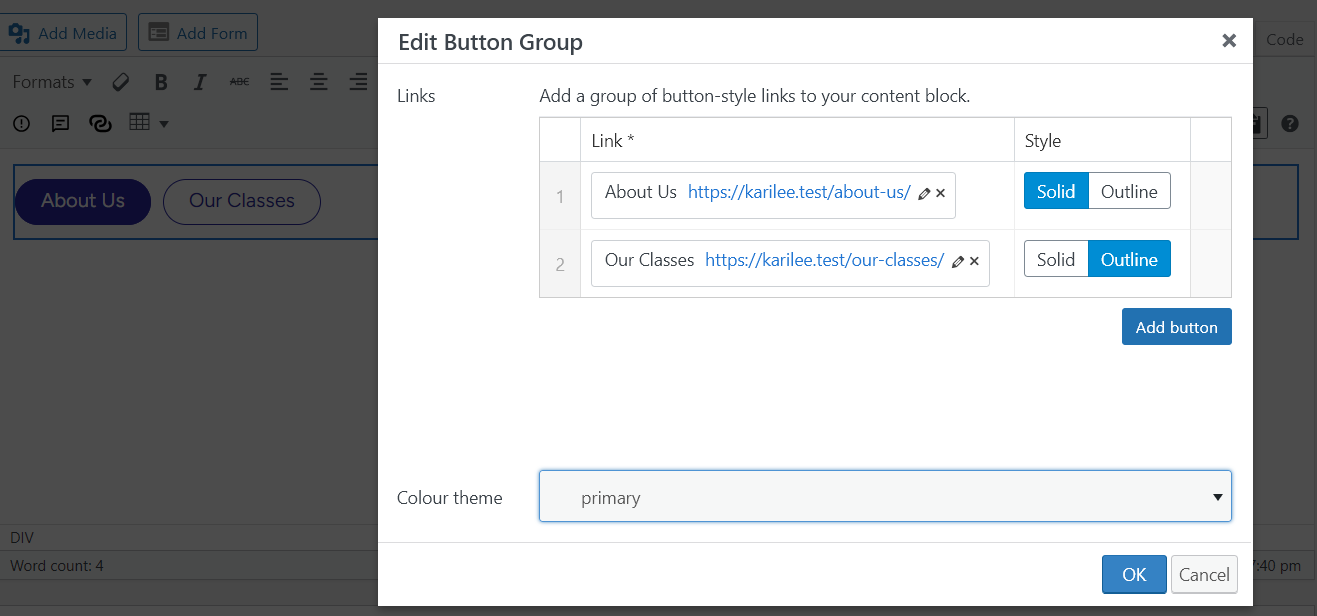
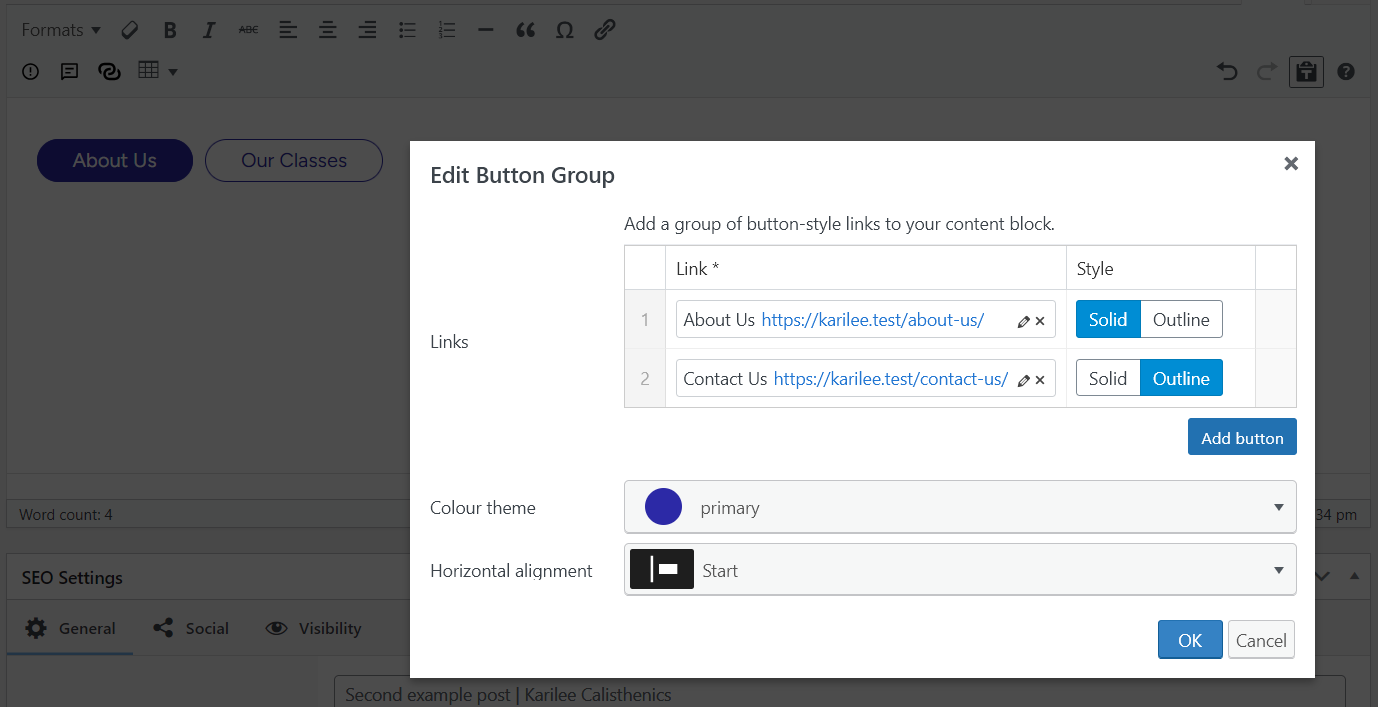
Fix(ButtonGroup,Pullquote,Callout): Display selected colour theme

diff --git a/dist/pullquote.dist.js b/dist/pullquote.dist.js
@@ -17,6 +17,7 @@
 				label: 'Colour theme',
 				value: selectedValue || '',
 				classes: 'color-theme-field',
+				onClick: this.updateCurrentThemeSwatch.bind(this),
 				values: [
 					{ text: 'Inherit', value: '', classes: 'color-theme-field__swatch color-theme-field__swatch--inherit' },
 					...Object.keys(doublee_tinymce.palette).map(colorName => ({
@@ -26,6 +27,30 @@
 					}))
 				]
 			};
+		}
+
+		displayCurrentColorThemeSwatch(event) {
+			const colorThemeTrigger = event?.target.$el[0].querySelector('.mce-color-theme-field');
+			const colorThemeLabel = event?.target.$el[0].querySelector('.mce-color-theme-field .mce-txt')?.textContent;
+			if(colorThemeTrigger && colorThemeLabel) {
+				colorThemeTrigger.insertAdjacentHTML('afterbegin', `<span class="mce-color-theme-field__swatch mce-color-theme-field__swatch--${colorThemeLabel.toLowerCase()}"></span>`);
+			}
+		}
+
+		updateCurrentThemeSwatch(event) {
+			const colorThemeTrigger = document.querySelector('.mce-color-theme-field');
+			const clickedOption = event?.target?.closest('.mce-menu-item');
+			const clickedOptionLabel = clickedOption?.innerText?.trim();
+			if(colorThemeTrigger && clickedOptionLabel) {
+				// Remove the old swatch
+				const oldSwatch = colorThemeTrigger.querySelector('.mce-color-theme-field__swatch');
+				if(oldSwatch) {
+					oldSwatch.remove();
+				}
+
+				// Insert the new swatch according to the newly-selected option
+				colorThemeTrigger.insertAdjacentHTML('afterbegin', `<span class="mce-color-theme-field__swatch mce-color-theme-field__swatch--${clickedOptionLabel.toLowerCase()}"></span>`);
+			}
 		}
 
 		createHAlignSelector(selectedValue) {
@@ -191,7 +216,10 @@
 					},
 					this.createColorThemeSelector(data.colorTheme)
 				],
-				onsubmit: function (e) {
+				onOpen: function (event) {
+					plugin.displayCurrentColorThemeSwatch(event);
+				},
+				onSubmit: function (e) {
 					const citation = e.data.citation ? e.data.citation.trim() : '';
 
 					const html = `

diff --git a/dist/callout.dist.js b/dist/callout.dist.js
@@ -17,6 +17,7 @@
 				label: 'Colour theme',
 				value: selectedValue || '',
 				classes: 'color-theme-field',
+				onClick: this.updateCurrentThemeSwatch.bind(this),
 				values: [
 					{ text: 'Inherit', value: '', classes: 'color-theme-field__swatch color-theme-field__swatch--inherit' },
 					...Object.keys(doublee_tinymce.palette).map(colorName => ({
@@ -26,6 +27,30 @@
 					}))
 				]
 			};
+		}
+
+		displayCurrentColorThemeSwatch(event) {
+			const colorThemeTrigger = event?.target.$el[0].querySelector('.mce-color-theme-field');
+			const colorThemeLabel = event?.target.$el[0].querySelector('.mce-color-theme-field .mce-txt')?.textContent;
+			if(colorThemeTrigger && colorThemeLabel) {
+				colorThemeTrigger.insertAdjacentHTML('afterbegin', `<span class="mce-color-theme-field__swatch mce-color-theme-field__swatch--${colorThemeLabel.toLowerCase()}"></span>`);
+			}
+		}
+
+		updateCurrentThemeSwatch(event) {
+			const colorThemeTrigger = document.querySelector('.mce-color-theme-field');
+			const clickedOption = event?.target?.closest('.mce-menu-item');
+			const clickedOptionLabel = clickedOption?.innerText?.trim();
+			if(colorThemeTrigger && clickedOptionLabel) {
+				// Remove the old swatch
+				const oldSwatch = colorThemeTrigger.querySelector('.mce-color-theme-field__swatch');
+				if(oldSwatch) {
+					oldSwatch.remove();
+				}
+
+				// Insert the new swatch according to the newly-selected option
+				colorThemeTrigger.insertAdjacentHTML('afterbegin', `<span class="mce-color-theme-field__swatch mce-color-theme-field__swatch--${clickedOptionLabel.toLowerCase()}"></span>`);
+			}
 		}
 
 		createHAlignSelector(selectedValue) {
@@ -182,7 +207,10 @@
 					},
 					this.createColorThemeSelector(data.colorTheme)
 				],
-				onsubmit: function (e) {
+				onOpen: function (event) {
+					plugin.displayCurrentColorThemeSwatch(event);
+				},
+				onSubmit: function (e) {
 					const content = e.data.content.trim();
 					if (content === '') {
 						return;

diff --git a/dist/buttongroup.dist.js b/dist/buttongroup.dist.js
@@ -17,6 +17,7 @@
 				label: 'Colour theme',
 				value: selectedValue || '',
 				classes: 'color-theme-field',
+				onClick: this.updateCurrentThemeSwatch.bind(this),
 				values: [
 					{ text: 'Inherit', value: '', classes: 'color-theme-field__swatch color-theme-field__swatch--inherit' },
 					...Object.keys(doublee_tinymce.palette).map(colorName => ({
@@ -26,6 +27,30 @@
 					}))
 				]
 			};
+		}
+
+		displayCurrentColorThemeSwatch(event) {
+			const colorThemeTrigger = event?.target.$el[0].querySelector('.mce-color-theme-field');
+			const colorThemeLabel = event?.target.$el[0].querySelector('.mce-color-theme-field .mce-txt')?.textContent;
+			if(colorThemeTrigger && colorThemeLabel) {
+				colorThemeTrigger.insertAdjacentHTML('afterbegin', `<span class="mce-color-theme-field__swatch mce-color-theme-field__swatch--${colorThemeLabel.toLowerCase()}"></span>`);
+			}
+		}
+
+		updateCurrentThemeSwatch(event) {
+			const colorThemeTrigger = document.querySelector('.mce-color-theme-field');
+			const clickedOption = event?.target?.closest('.mce-menu-item');
+			const clickedOptionLabel = clickedOption?.innerText?.trim();
+			if(colorThemeTrigger && clickedOptionLabel) {
+				// Remove the old swatch
+				const oldSwatch = colorThemeTrigger.querySelector('.mce-color-theme-field__swatch');
+				if(oldSwatch) {
+					oldSwatch.remove();
+				}
+
+				// Insert the new swatch according to the newly-selected option
+				colorThemeTrigger.insertAdjacentHTML('afterbegin', `<span class="mce-color-theme-field__swatch mce-color-theme-field__swatch--${clickedOptionLabel.toLowerCase()}"></span>`);
+			}
 		}
 
 		createHAlignSelector(selectedValue) {
@@ -183,7 +208,7 @@
 
 				editor.windowManager.open({
 					title: existingNode ? 'Edit Button Group' : 'Insert Button Group',
-					classes: 'doublee-miniblock-modal',
+					classes: 'doublee-miniblock-modal doublee-miniblock-modal--button-group',
 					body: [
 						{
 							type: 'container',

diff --git a/src/Miniblocks/_miniblock-plugin.js b/src/Miniblocks/_miniblock-plugin.js
@@ -14,6 +14,7 @@ export class MiniblockPlugin {
 			label: 'Colour theme',
 			value: selectedValue || '',
 			classes: 'color-theme-field',
+			onClick: this.updateCurrentThemeSwatch.bind(this),
 			values: [
 				{ text: 'Inherit', value: '', classes: 'color-theme-field__swatch color-theme-field__swatch--inherit' },
 				...Object.keys(doublee_tinymce.palette).map(colorName => ({
@@ -23,6 +24,30 @@ export class MiniblockPlugin {
 				}))
 			]
 		};
+	}
+
+	displayCurrentColorThemeSwatch(event) {
+		const colorThemeTrigger = event?.target.$el[0].querySelector('.mce-color-theme-field');
+		const colorThemeLabel = event?.target.$el[0].querySelector('.mce-color-theme-field .mce-txt')?.textContent;
+		if(colorThemeTrigger && colorThemeLabel) {
+			colorThemeTrigger.insertAdjacentHTML('afterbegin', `<span class="mce-color-theme-field__swatch mce-color-theme-field__swatch--${colorThemeLabel.toLowerCase()}"></span>`);
+		}
+	}
+
+	updateCurrentThemeSwatch(event) {
+		const colorThemeTrigger = document.querySelector('.mce-color-theme-field');
+		const clickedOption = event?.target?.closest('.mce-menu-item');
+		const clickedOptionLabel = clickedOption?.innerText?.trim();
+		if(colorThemeTrigger && clickedOptionLabel) {
+			// Remove the old swatch
+			const oldSwatch = colorThemeTrigger.querySelector('.mce-color-theme-field__swatch');
+			if(oldSwatch) {
+				oldSwatch.remove();
+			}
+
+			// Insert the new swatch according to the newly-selected option
+			colorThemeTrigger.insertAdjacentHTML('afterbegin', `<span class="mce-color-theme-field__swatch mce-color-theme-field__swatch--${clickedOptionLabel.toLowerCase()}"></span>`);
+		}
 	}
 
 	createHAlignSelector(selectedValue) {

diff --git a/dist/plugin.dist.js b/dist/plugin.dist.js
@@ -17,6 +17,7 @@
 				label: 'Colour theme',
 				value: selectedValue || '',
 				classes: 'color-theme-field',
+				onClick: this.updateCurrentThemeSwatch.bind(this),
 				values: [
 					{ text: 'Inherit', value: '', classes: 'color-theme-field__swatch color-theme-field__swatch--inherit' },
 					...Object.keys(doublee_tinymce.palette).map(colorName => ({
@@ -26,6 +27,30 @@
 					}))
 				]
 			};
+		}
+
+		displayCurrentColorThemeSwatch(event) {
+			const colorThemeTrigger = event?.target.$el[0].querySelector('.mce-color-theme-field');
+			const colorThemeLabel = event?.target.$el[0].querySelector('.mce-color-theme-field .mce-txt')?.textContent;
+			if(colorThemeTrigger && colorThemeLabel) {
+				colorThemeTrigger.insertAdjacentHTML('afterbegin', `<span class="mce-color-theme-field__swatch mce-color-theme-field__swatch--${colorThemeLabel.toLowerCase()}"></span>`);
+			}
+		}
+
+		updateCurrentThemeSwatch(event) {
+			const colorThemeTrigger = document.querySelector('.mce-color-theme-field');
+			const clickedOption = event?.target?.closest('.mce-menu-item');
+			const clickedOptionLabel = clickedOption?.innerText?.trim();
+			if(colorThemeTrigger && clickedOptionLabel) {
+				// Remove the old swatch
+				const oldSwatch = colorThemeTrigger.querySelector('.mce-color-theme-field__swatch');
+				if(oldSwatch) {
+					oldSwatch.remove();
+				}
+
+				// Insert the new swatch according to the newly-selected option
+				colorThemeTrigger.insertAdjacentHTML('afterbegin', `<span class="mce-color-theme-field__swatch mce-color-theme-field__swatch--${clickedOptionLabel.toLowerCase()}"></span>`);
+			}
 		}
 
 		createHAlignSelector(selectedValue) {

diff --git a/src/Miniblocks/Pullquote/_miniblock-pullquote.js b/src/Miniblocks/Pullquote/_miniblock-pullquote.js
@@ -46,6 +46,7 @@ class PullquotePlugin extends MiniblockPlugin {
 	}
 
 	openModal(editor, existingData, existingNode) {
+		const plugin = this;
 		const defaults = doublee_tinymce?.defaults?.['pullquote'] || {};
 
 		const data = {
@@ -56,6 +57,7 @@ class PullquotePlugin extends MiniblockPlugin {
 
 		editor.windowManager.open({
 			title: existingNode ? 'Edit pullquote' : 'Insert pullquote',
+			classes: 'doublee-miniblock-modal',
 			body: [
 				{
 					type: 'textbox',
@@ -74,7 +76,10 @@ class PullquotePlugin extends MiniblockPlugin {
 				},
 				this.createColorThemeSelector(data.colorTheme)
 			],
-			onsubmit: function (e) {
+			onOpen: function (event) {
+				plugin.displayCurrentColorThemeSwatch(event);
+			},
+			onSubmit: function (e) {
 				const citation = e.data.citation ? e.data.citation.trim() : '';
 
 				const html = `

diff --git a/src/Miniblocks/ButtonGroup/_miniblock-buttongroup.js b/src/Miniblocks/ButtonGroup/_miniblock-buttongroup.js
@@ -68,7 +68,7 @@ class ButtonGroupPlugin extends MiniblockPlugin {
 
 			editor.windowManager.open({
 				title: existingNode ? 'Edit Button Group' : 'Insert Button Group',
-				classes: 'doublee-miniblock-modal',
+				classes: 'doublee-miniblock-modal doublee-miniblock-modal--button-group',
 				body: [
 					{
 						type: 'container',
@@ -79,6 +79,7 @@ class ButtonGroupPlugin extends MiniblockPlugin {
 					plugin.createHAlignSelector(data.hAlign)
 				],
 				onOpen: function (event) {
+					plugin.displayCurrentColorThemeSwatch(event);
 					plugin.insertCurrentHAlignIcon(event);
 				},
 				onSubmit: function (event) {

diff --git a/src/Miniblocks/Callout/_miniblock-callout.js b/src/Miniblocks/Callout/_miniblock-callout.js
@@ -67,7 +67,10 @@ class CalloutPlugin extends MiniblockPlugin {
 				},
 				this.createColorThemeSelector(data.colorTheme)
 			],
-			onsubmit: function (e) {
+			onOpen: function (event) {
+				plugin.displayCurrentColorThemeSwatch(event);
+			},
+			onSubmit: function (e) {
 				const content = e.data.content.trim();
 				if (content === '') {
 					return;
